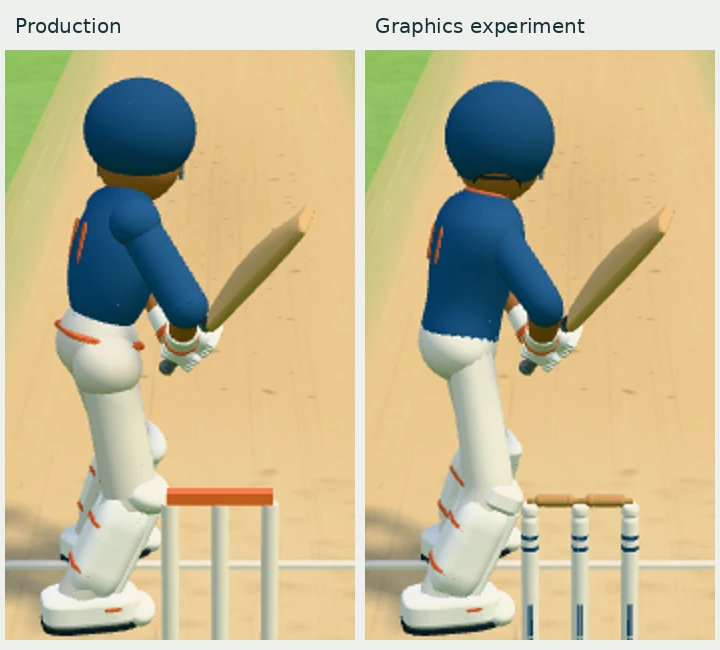
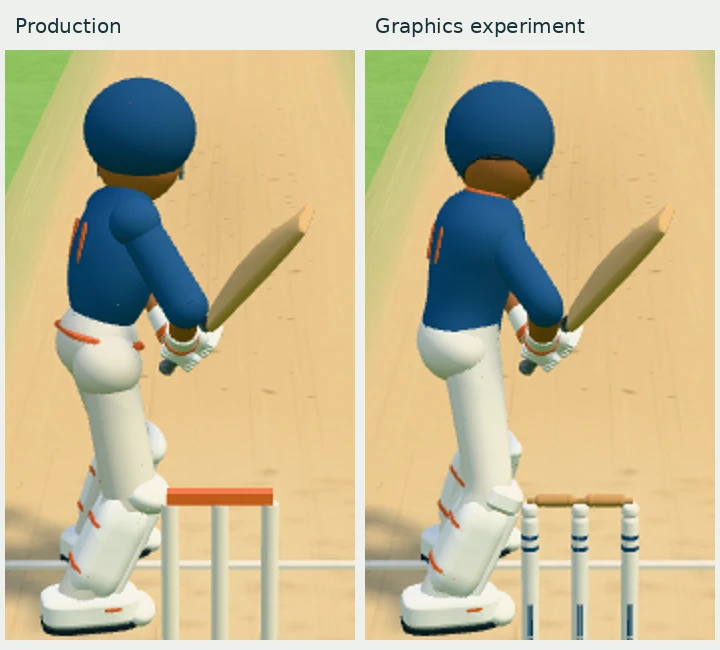
Raise helmet neckline and fill out upper thigh silhouette

Changed region(s): [[0.5806, 0.4923, 0.7028, 0.6462], [0.6417, 0.2154, 0.7333, 0.3077], [0.6111, 0.6154, 0.6417, 0.6769]]

diff --git a/src/entities/Batter.ts b/src/entities/Batter.ts
@@ -1461,7 +1461,7 @@ export class Batter {
     // shoulders sounds right but breaks the surface all the way round and, once
     // the batter bends forward, humps out behind the neck. The deltoid caps on
     // the arms carry the shoulder line instead.
-    this.mesh(this.hips, this.palette.trousers, [.182, .13, .13], 'ball');
+    this.mesh(this.hips, this.palette.trousers, [.188, .135, .135], 'ball');
     this.mesh(this.torso, this.palette.shirt, [1, 1, 1], 'jersey');
     const neck = this.mesh(this.torso, this.palette.skin, [.115, .17, .115], 'tube'); neck.position.y = .175;
     // Jersey seam, collar, and back number make rotation legible from the camera.
@@ -1471,7 +1471,7 @@ export class Batter {
     this.mesh(this.head, this.palette.skin, [.075, .10, .075], 'ball').position.set(0, -.10, .075);
     this.mesh(this.head, this.palette.helmet, [1, 1, 1], 'helmet');
     this.mesh(this.head, this.palette.handle, [1, 1, 1], 'helmetRim');
-    this.mesh(this.head, this.palette.handle, [.11, .012, .01], 'soft').position.set(0, -.097, -.153);
+    this.mesh(this.head, this.palette.handle, [.11, .012, .01], 'soft').position.set(0, -.027, -.194);
     this.mesh(this.head, this.palette.helmet, [.34, .045, .20], 'soft').position.set(0, .045, .135);
     for (const y of [-.055, -.115]) {
       const bar = this.mesh(this.head, this.palette.grille, [.016, .30, .016], 'tube');
@@ -1543,7 +1543,7 @@ export class Batter {
       // their separate cylinders or ball joints. The surface spans the chain.
       for (const control of [arm.upper, arm.lower, arm.elbow, arm.cap, leg.thigh, leg.shin, leg.knee, leg.cap]) control.visible = false;
       const sleeve = new BendingLimb([this.palette.shirt, this.palette.skin], [.072, .062, .046]);
-      const trouser = new BendingLimb(this.palette.trousers, [.076, .082, .066]);
+      const trouser = new BendingLimb(this.palette.trousers, [.103, .082, .066]);
       this.sleeves.push(sleeve); this.trouserLegs.push(trouser);
       this.root.add(sleeve.mesh, trouser.mesh);
     }
@@ -2462,7 +2462,8 @@ export class Batter {
       this.segment(leg.thigh, hipJoint, knee, .175, .19);
       this.segment(leg.shin, knee, foot, .145, .16);
       leg.knee.position.copy(knee); leg.cap.position.copy(hipJoint);
-      this.limbStart.copy(hipJoint).lerp(hip, .28).addScaledVector(spine, .06);
+      // Bury the fuller thigh roots inside the pelvis for a continuous trouser silhouette.
+      this.limbStart.copy(hipJoint).lerp(hip, .5).addScaledVector(spine, .09);
       this.trouserLegs[i].update(this.limbStart, knee, foot);
       const lowerAxis = knee.clone().sub(foot).normalize();
       const shoeYaw = i === 0 ? pose.yaw * .77 : (pose.backFootYaw ?? 1.38);

diff --git a/src/entities/helmetGeometry.ts b/src/entities/helmetGeometry.ts
@@ -3,7 +3,8 @@ import * as THREE from 'three';
 /** +Z faces the bat. A raised nape opening interrupts the rear rim. */
 function shellPoint(angle: number, t: number) {
   const front = Math.max(0, Math.cos(angle)), back = Math.max(0, -Math.cos(angle));
-  const rimY = .035 * front ** 4 - .12 * Math.sin(angle) ** 2 - .10 * back + .025 * back ** 4;
+  // Broad rear lift exposes the nape without turning the lower shell into a tall collar.
+  const rimY = .035 * front ** 4 - .12 * Math.sin(angle) ** 2 - .035 * back + .02 * back ** 4;
   const phi = t * Math.acos((rimY - .024) / .184);
   return new THREE.Vector3(.183 * Math.sin(phi) * Math.sin(angle),
     .024 + .184 * Math.cos(phi), -.012 + .19 * Math.sin(phi) * Math.cos(angle));

diff --git a/docs/GRAPHICS-LAB-OCT05.md b/docs/GRAPHICS-LAB-OCT05.md
@@ -23,10 +23,15 @@ New geometry naturally has different highlights and shadows.
   trousers are retained. Sleeves and trouser legs now use continuous bending
   surfaces; the separate shoulder, elbow, hip and knee balls are no longer
   rendered. The existing IK controls and shot/contact poses are retained.
-- The helmet now has an oval dome, a gently raised rear neck opening, a thin
+- The helmet now has an oval dome, a higher, broad rear neck opening, a thin
   edge trim and a small rear adjuster. The flat lower wall and bulky side
   blocks have been removed. Rear and side references: [Masuri C-Line](https://www.masuri.com/products/os2-legacy-steel-cricket-helmet)
   and [Masuri E-Line](https://www.masuri.com/products/original-series-mk2-elite-titanium-cricket-helmet).
+  Following the supplied DSC side reference, the rear rim is now lifted a
+  further 0.06 model metres to expose more neck; its adjuster follows the rim.
+  Upper thighs are fuller and taper toward the knees, with their roots tucked
+  into a slightly broader pelvis. These proportion changes add no geometry,
+  draws, materials or animation work.
 - Bowler and fielders share the shaped jersey, collar, chest badge and back
   number; the cap and footwear details remain.
 - Grass now includes narrow, static blade geometry beside the pitch, fading
@@ -37,7 +42,7 @@ New geometry naturally has different highlights and shadows.
 - The detailed stumps, turned wooden bails and batched seated crowd remain.
 - Shot rigs, contact points, camera and game rules are unchanged.
 
-![Previous preview versus revised character](graphics-lab/revision-comparison.webp)
+![Neck clearance and hip-to-thigh revision](graphics-lab/neck-thigh-comparison.webp)
 
 ![Matched-camera character comparison](graphics-lab/character-comparison.webp)
 
@@ -98,6 +103,8 @@ continues using the repository's existing preview database namespace.
 ## Validation
 
 - TypeScript and production build, including serverless function import checks.
+- Latest neck/thigh refinement: 145 batter and geometry tests passed;
+  deterministic phone day/night and desktop captures retain the same render counts.
 - 213 batter, bowler, fielder and geometry tests passed for this revision,
   including connected limb surfaces and helmet rim/outward-normal checks.
   The preceding colour restoration also passed the grounds, lighting and
